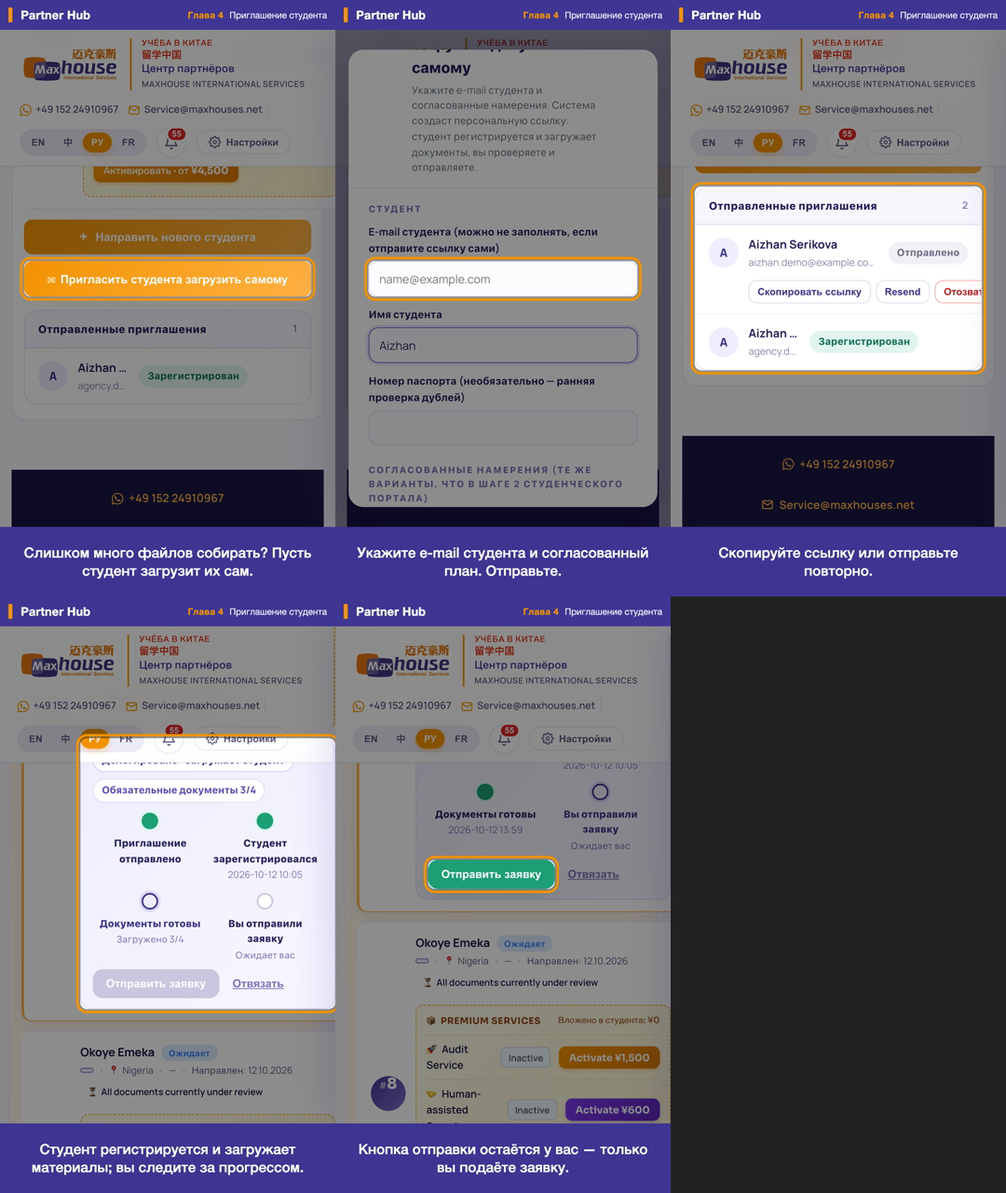
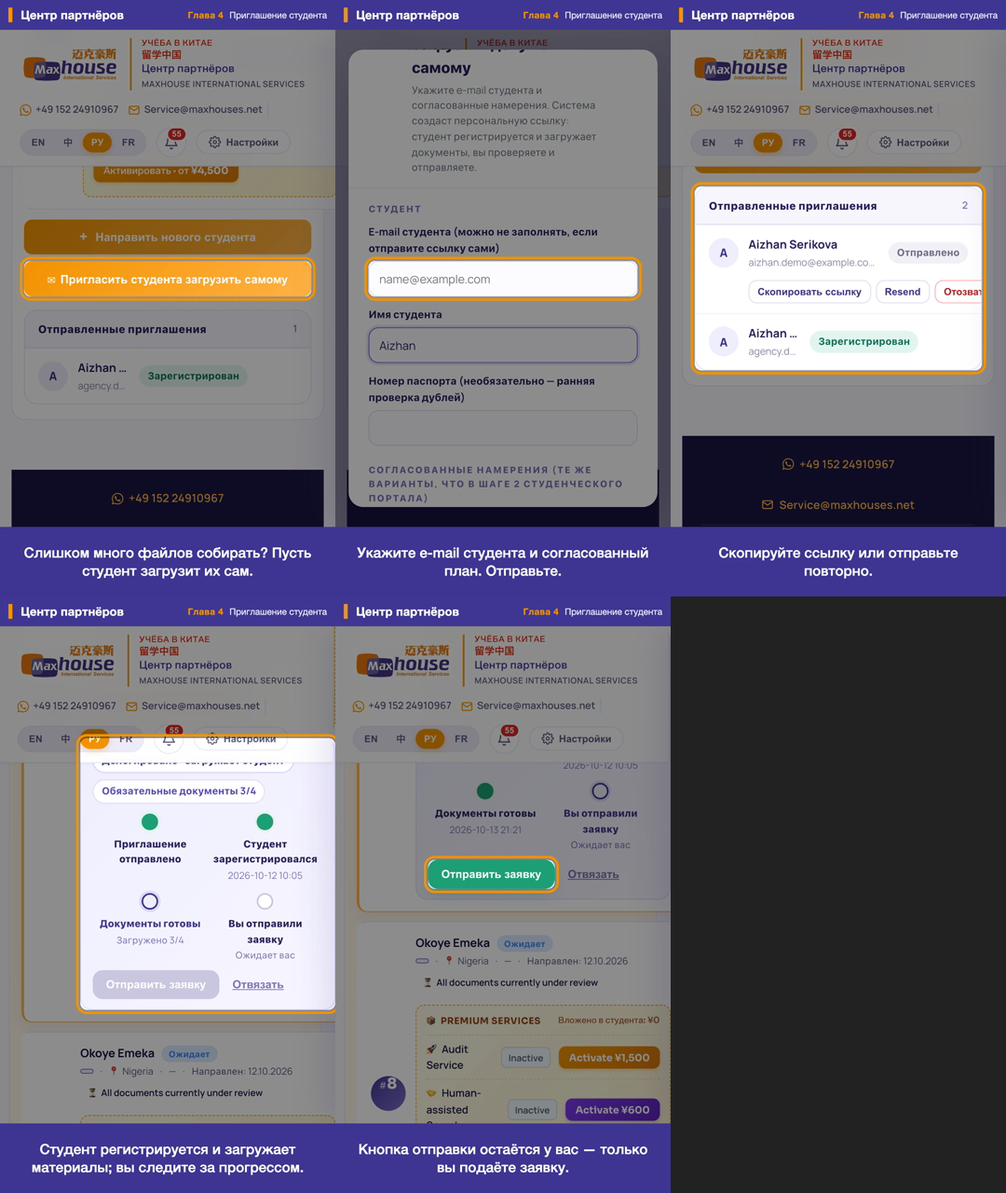
JOB-GP1 第三轮返工trip41: ch4 具名邀请章四语横竖 v185 定版重录——销 §一 负数金额。
ch4=委托学生自传章(state 章 pt-04)。review1/review2 未标 ch4 字幕缺陷→字幕/高亮一字未改，纯按 §三.10「十章全部 v185 重录·不沿用旧录像」重录。第二版 trip36 对 ch4「照原版入拼」沿用 v184 旧录像，英文 4-4/4-5 委托卡「Invested on this student: ¥-3,000」负数即此漏(漏斗缺陷1·v185 已修)。每变体 st-pt04-docs-full 置态(delegate+必传材料 4/4)→rec v185(4-5 真 submit)→st-pt04-reset-cleanup scoped 复位(不动 app_no·不跑 rebuild)。

§一(核心): v185 重录后四语 4-4/4-5 页面「Invested/该学生已投入/Вложено/Investi ¥0」无负数(亲帧 EN f00215+f00298·ZH f00215·RU f00214·FR f00212)。§三.7 N/A: ch4 全 5 镜列表中段不露 hero→无提额横幅(亲帧 EN 4-1 f00025)。§三.9: 俄法章节条 Центр партнёров/Espace partenaires(trip38 overlay 继承)。

开工+收工 verify 均 17/17 PASS 0 FAIL。时长 land en42.87/zh42.96/ru43.12/fr42.85·port en42.58/zh42.86/ru42.86/fr42.78s。本轮不改五端口代码(partner-portal diff 空·无 v186)。推: PROGRESS+决定账(D-41-1)+4 REVIEW-shots+四语 ch4 联络表(land/port)。下趟=ch5(材料退回章·pt-03 两态·§三.2 5-1)。GP-1 第三轮未收官。

diff --git a/JOB-GP1-03-PROGRESS.md b/JOB-GP1-03-PROGRESS.md
@@ -1,7 +1,20 @@
-最后一趟：2026-10-13 第40趟 第三轮返工（RULING-20261013b-video-only）：**做了＝第〇节代码核验（partner-portal 与线上一致·无 v186·diff 空）+ ch3 四语横竖 v185 定版重录，落 review2 三处镜级缺陷**。§三.3：3-3 加 preOff→录制从「第二步·档案」起录，四语横竖整段停在出生日期/护照号字段并高亮（照英文样子，取代 v2 停在表单底的旧态）。§三.4：3-9 的 pre 在 loadMyReferrals 后轮询找名字含 Aisha 的卡打 data-mh39 标、hl 改 [data-mh39]→橙环框刚提交的 #10 Demo Aisha 整卡（取代旧 hl 框错的 #9 Serikova）。§三.8：主审 grep 实证 v185 外挂 i18n 包真值（ru=Направить нового студента / fr=Soumettre un nouveau référencement），改 captions 俄法 3-1 对齐按钮逐字（§四.4）、重 TTS。§三.7：录前 st-ch8-quota-off/录后 restore 去提额横幅。§一：3-9 Invested ¥0 无负数。state 章：每片 st-ch3-cleanup 起录+录后 st-ch3-mark-test+cleanup（scoped 单删 guide-pt-ch3+还原 pt-01 基线草稿，不跑 rebuild）。开工+收工 verify 均 **17/17 PASS 0 FAIL**。亲帧逐帧复验四语 land 3-1/3-3/3-9+ru-port 3-9+zh-port 3-3：按钮名逐字对、档案字段高亮、Demo Aisha #10 唯一框住、¥0 无负数、无 beta/test、双盲守住、no @gmail、页头平台联系方式不遮（D-14-3/D-15-1）、俄法英文回退 D-18-4 照录。时长 land en58.62/zh59.92/ru59.96/fr58.99·port en58.61/zh59.83/ru59.97/fr58.95s。第二版 ch3 成片留底 _v2/、dist 覆盖第三轮版。**下趟＝ch4（§三.10 v185 重录，亲验 §一 金额无负数——v2 对 ch4「照原版入拼」致英文 4-4/4-5「Invested ¥-3,000」负数）**。GP-1 第三轮返工未收官。
+最后一趟：2026-10-13 22:00 第41趟 第三轮返工（RULING-20261013b-video-only）：**做了＝第〇节代码核验（partner-portal 与线上一致·无 v186·diff 空·index 指 v185）+ ch4 具名邀请章四语横竖 v185 定版重录，销 §一 负数金额**。ch4＝委托学生自传章（state 章 pt-04）；review1/review2 未标 ch4 字幕缺陷→字幕/高亮一字未改，纯按 §三.10「十章全部 v185 重录·不沿用旧录像」重录——第二版 trip36 对 ch4「照原版入拼」沿用 v184 旧录像，英文 4-4/4-5 委托卡「Invested ¥-3,000」负数即此漏。每变体录前 st-pt04-docs-full 置态（pt-04 delegate+必传材料 4/4+清 submitted_at）、rec v185（4-5 真 submit）、录后 st-pt04-reset-cleanup scoped 复位（清 intake_mode/submitted_at+删预置 transcript，不动 app_no=MH-EXET28，不跑 rebuild）。prod-ch 合成 8 片覆盖 dist→gp1-finish contact 四语联络表。**§一（核心）**：v185 重录后四语 4-4/4-5 页面「Invested/该学生已投入/Вложено/Investi ¥0」**无负数**（亲帧 EN f00215+f00298·ZH f00215·RU f00214·FR f00212）。**§三.7 N/A**：ch4 全 5 镜在工作台列表中段、不露 hero 顶部→无提额横幅（亲帧 EN 4-1 f00025），不需 quota-off。**§三.9**：俄法章节条 Центр партнёров/Espace partenaires（trip38 overlay 继承，联络表实帧亲验）。开工+收工 verify 均 **17/17 PASS 0 FAIL**。亲帧复验四语 land 4-1/4-4(+en 4-5)：委托卡环框、¥0 无负数、Submit 绿钮 4/4、无 beta/placeholder/test、双盲守住、no @gmail（演示邮箱 aizhan.demo@/agency.demo@example.com）、页头平台 WhatsApp/Email 不遮（D-14-3/D-15-1）、俄法委托卡英文回退 D-18-4 照录。时长 land en42.87/zh42.96/ru43.12/fr42.85·port en42.58/zh42.86/ru42.86/fr42.78s。第二版 ch4 成片留底 ~/guide/dist/partner/_v2/、dist 覆盖第三轮版。**下趟＝ch5（材料退回章·state 章 pt-03 两态；§三.2 5-1 字幕/取镜改对齐画面+§三.8 俄法引用按钮名+§一 ¥0+§三.7 露 hero 去横幅）**。GP-1 第三轮返工未收官。
+> 【存档·第40趟】最后一趟：2026-10-13 第40趟 第三轮返工（RULING-20261013b-video-only）：**做了＝第〇节代码核验（partner-portal 与线上一致·无 v186·diff 空）+ ch3 四语横竖 v185 定版重录，落 review2 三处镜级缺陷**。§三.3：3-3 加 preOff→录制从「第二步·档案」起录，四语横竖整段停在出生日期/护照号字段并高亮（照英文样子，取代 v2 停在表单底的旧态）。§三.4：3-9 的 pre 在 loadMyReferrals 后轮询找名字含 Aisha 的卡打 data-mh39 标、hl 改 [data-mh39]→橙环框刚提交的 #10 Demo Aisha 整卡（取代旧 hl 框错的 #9 Serikova）。§三.8：主审 grep 实证 v185 外挂 i18n 包真值（ru=Направить нового студента / fr=Soumettre un nouveau référencement），改 captions 俄法 3-1 对齐按钮逐字（§四.4）、重 TTS。§三.7：录前 st-ch8-quota-off/录后 restore 去提额横幅。§一：3-9 Invested ¥0 无负数。state 章：每片 st-ch3-cleanup 起录+录后 st-ch3-mark-test+cleanup（scoped 单删 guide-pt-ch3+还原 pt-01 基线草稿，不跑 rebuild）。开工+收工 verify 均 **17/17 PASS 0 FAIL**。亲帧逐帧复验四语 land 3-1/3-3/3-9+ru-port 3-9+zh-port 3-3：按钮名逐字对、档案字段高亮、Demo Aisha #10 唯一框住、¥0 无负数、无 beta/test、双盲守住、no @gmail、页头平台联系方式不遮（D-14-3/D-15-1）、俄法英文回退 D-18-4 照录。时长 land en58.62/zh59.92/ru59.96/fr58.99·port en58.61/zh59.83/ru59.97/fr58.95s。第二版 ch3 成片留底 _v2/、dist 覆盖第三轮版。**下趟＝ch4（§三.10 v185 重录，亲验 §一 金额无负数——v2 对 ch4「照原版入拼」致英文 4-4/4-5「Invested ¥-3,000」负数）**。GP-1 第三轮返工未收官。
 > 【存档·第39趟】最后一趟：2026-10-13 第39趟 第三轮返工（RULING-20261013b-video-only）：**做了＝第〇节代码核验（partner-portal 与线上一致·无 v186·diff 空）+ ch1 §三.10 定版重录 + §三.7 去横幅 + §三.9 俄法章节条**。ch1 四语横竖 8 片用 v185 重录（不沿用旧录像）；1-8 露工作台顶部→录前 st-ch8-quota-off/录后 restore 去掉「Quota raise pending 10→30」横幅；俄法章节条左标签继承 trip38 已改 overlay（Центр партнёров/Espace partenaires）。ch1 字幕无缺陷纯重录（字幕/shots/captions/产品码一字未改）。开工+收工 verify 均 **17/17 PASS 0 FAIL**。亲眼逐帧：EN land 1-8 f00402+EN port 1-8 f00438（hero 橙框·¥0 无负数·无横幅·STUDENTS 9）+RU/FR land 章节条裁帧（Центр партнёров/Espace partenaires）；无 beta/test、双盲守住、no @gmail、页头平台联系方式不遮（D-14-3/D-15-1）、俄法 hero LL 英文回退 D-18-4 照录。第二版 ch1 成片留底 _v2/、dist 覆盖第三轮版。**下趟＝ch3（§三.3 ch3-3 中俄法档案字段高亮+§三.4 ch3-9 滚到 Demo Aisha 卡+§三.8 俄法 3-1 引用按钮名+§一 工作台；state 章需 st-ch3-cleanup/mark-test）**。GP-1 第三轮返工未收官。
 > 【存档·第38趟】最后一趟：2026-10-13 第38趟 第三轮返工（RULING-20261013b-video-only）：**做了＝第〇节放回代码核验（partner-portal 与线上一致·无 v186·diff 空）+ ch2 §三.1 重做**。2-3 高亮改框第一张学生卡整卡（原框计数药丸）；2-4 改为依次框 5 张不同真实阶段的卡状态行（nth1/4/5/6/8＝审核中/已通过匹配/新offer/已发通知书/录取完成·rec.mjs 新增 hlseq 多段高亮）+四语字幕重写重配音；§三.7 录前 st-ch8-quota-off/录后 restore 去掉工作台顶部提额横幅；§三.9 俄法章节条左标签改 Центр партнёров/Espace partenaires。四语横竖 8 片 v185 重录+重拼，开工+收工 verify 均 **17/17 PASS 0 FAIL**。亲眼逐帧复验 EN seg1-5/2-1/2-3+ZH seg3+RU/FR seg5：环框正确、无提额横幅、¥0 无负数、各 ¥ 正数、无 beta/test、双盲守住、no @gmail。第二版成片留底 _v2/、dist 覆盖第三轮版。**下趟＝ch1（§三.10 十章全部重录：四语横竖 v185 定版重录+§三.7 去横幅+§三.9 俄法章节条；ch1 字幕无缺陷纯重录）**。GP-1 第三轮返工未收官。
 > 【存档·第二版收官单结论，已被第三轮返工重开】最后一趟：2026-10-13 第37趟 返工：**做了＝四语过 review1 §六十一项重审 → GP-1 返工收官**。全部工作台章(ch1/2/3/5/7/8/9/10 v185 定版)+ ch6 §二去揭晓(trip21)+ ch4 原版 + 开场快剪 OP-2..5 + 四语全片/速览(trip36 重拼)齐备。本趟纯复审+文书、**零 DB 写入**，开工+收工 verify **17/17 PASS 0 FAIL**。十一项四语各自全过：写 REVIEW-en-self.md(九项升十一项 v2)+ 新建 REVIEW-{zh,ru,fr}-self.md；四张 shots 逐镜对账表 **0 条「否」**。当场新验：①禁用词＋真名校名＋beta/test 对 captions 全 **57 镜×4 语** 扫描 **0 命中**；②8 个片尾成片 ED-{land,port}-{en,zh,ru,fr} 抽实帧 jsQR **真帧解码**全＝`…/partner-portal/?src=video-<语言>` 逐字对；③ffprobe 实测四语 full/trailer/OP/ED 时长与 trip36 记录逐项一致、segments 全语齐。四语新时长：全片 land/port EN426.6/424.7·ZH441.1/440.3·RU449.9/449.6·FR440.3/439.8s；速览 EN164.3/162.8·ZH168.4/167.6·RU172.3/172.2·FR165.8/165.5s。十一项四语全过→照 RULING-20261012c-rework 第4条重写 `~/mh-jobs/SUMMARY-GP1.md`(首行 **PUSH_OK=yes**，大白话：返工改了什么/review1 每条怎么处理/6 条产品问题留业主/四语新时长/v1 与 v2 区别/GP-2 建议包)。主仓库点名提交 JOB-GP1(4 self-review+DECISIONS D-37-1)不推；4 self-review+SUMMARY+决定账+PROGRESS 推 mh-jobs。**GP-1 四语横竖返工全部收官，循环自停。不开始 GP-2：不传 R2、不动 Cloudflare、不推主仓库。**
+
+# 第 41 趟（2026-10-13 Mac mini 无人值守）· ch4 具名邀请章 §三.10 定版重录 + §一 负数销账（RULING-20261013b-video-only）
+- **背景**：第三轮返工续跑（§五 顺序 ch3 后＝ch4）。第〇节代码核验：`git diff origin/main --stat -- partner-portal` 空、partner-portal 下无未跟踪文件、无 v186、index.html 指向 v185→无需还原，本轮不改五端口代码（每趟复核在案）。
+- **本趟＝ch4（具名邀请/委托学生自传章，state 章 pt-04）**：
+  - **§三.10（定版重录·本趟目的）**：review1/review2 未标 ch4 任何镜级字幕缺陷，但 §三.10 要求十章全部用 v185 重录、不沿用任何旧录像。第二版（trip36）对 ch4「照原版入拼」沿用 v184 旧录像——英文 4-4/4-5 委托卡「Invested on this student: ¥-3,000」负数即此漏（漏斗缺陷1，v185 已修）。本趟 ch4 整章四语横竖 8 片用 v185 重录、合成、覆盖 dist。字幕/高亮一字未改。
+  - **state 章闭环（零改产品码·照既有 pt-04 工装 D-16-4）**：每变体 `st-pt04-docs-full.sql` 置态（pt-04 delegate+必传材料 4/4+清 submitted_at）→ `rec.mjs --chapter 4`（v185 只读 DOM，4-5 真 submit 写 submitted_at）→ `st-pt04-reset-cleanup.sql` scoped 复位（清 intake_mode/submitted_at+删预置 SPECIMEN transcript，**不动 app_no=MH-EXET28**，不跑全量 rebuild，D-12-2）。驱动脚本 `rec/_runch4.sh`（bash 显式参数避 zsh 分词坑）；en-land 先手录+肉眼验 ¥0 再批量 7 变体；`rec/_prodch4.sh` 合成 8 片。
+  - **§一（负数销账·核心）**：v185 重录后四语 4-4/4-5 页面增值服务区「Invested/该学生已投入/Вложено/Investi ¥0」**无负数**（亲帧 EN land 4-4 f00215+4-5 f00298·ZH f00215·RU f00214·FR f00212）。
+  - **§三.7（提额横幅）N/A**：ch4 全 5 镜在工作台已发邀请/委托卡/学生卡区（列表中段），均不露工作台顶部 hero→无「Quota raise pending」amber 横幅（亲帧 EN land 4-1 f00025，header 与内容间无横幅）。本趟不需 st-ch8-quota-off。
+  - **§三.9（俄法章节条）**：gp1-overlays.mjs ru.hub=Центр партнёров、fr.hub=Espace partenaires（trip38 已改 commit），本趟 ch4 重烧继承。联络表实帧亲验 ru/fr 章节条已本地化；zh=合作伙伴端、en=Partner Hub。
+- **验收**：开工+收工 verify 均 **17/17 PASS 0 FAIL**（每变体 scoped 置态/复位，无全量 rebuild）。四语 land 4-1/4-4(+en 4-5) 原始帧 + 四语横竖 8 张联络表亲验：委托卡环框、¥0 无负数、Submit 绿钮 4/4、各 ¥（¥1,500/¥600/¥4,500）正数；无 beta/placeholder/test；演示生 Aizhan Serikova/Okoye Emeka、机构 Demo Agency 无真 PII；邮箱 aizhan.demo@/agency.demo@example.com（no @gmail）；页头平台 WhatsApp/Email（Service@maxhouses.net）不遮（D-14-3/D-15-1）；俄法委托卡英文回退 D-18-4 照录不补。
+- **账目**：主仓库点名提交 JOB-GP1（REVIEW-{en,zh,ru,fr}-shots.md 追加 ch4 第三轮节 + DECISIONS D-41-1 + rec/_runch4.sh + rec/_prodch4.sh），**未推**（本轮红线）。无 shots/captions/产品码/迁移改动。第二版 ch4 成片留底 `~/guide/dist/partner/_v2/ch4-*.mp4`（8 片），dist 覆盖第三轮版（不入 git）。四语 ch4 联络表 + 4 REVIEW-shots + 决定账 + PROGRESS 推 mh-jobs。
+- **下趟**：ch5（材料退回章·state 章 pt-03 两态：退回基线录 5-1/5-2/5-3 + st-pt03-reupload 录 5-4 审核中态；§三.2 5-1 字幕/取镜改对齐画面——「A document was returned. Open the student.」与画面「Submitted·awaiting platform review / All documents under review」对不上，按 §三.2(a)铃有退回通知则从铃框起 /(b)否则字幕最小改成画面证实的说法、退回由 5-2 REJECTED 承接，四语重配音；并 §三.8 俄法引用按钮名、§一 ¥0、§三.7 露 hero 去横幅）。**GP-1 第三轮返工未收官**，后续 ch6→ch7(§三.5 7-4/§三.6)→ch8→ch9→ch10 逐章做，再 OP 重做+重拼+十一项重审→才重写 SUMMARY-GP1。
 
 # 第 39 趟（2026-10-13 Mac mini 无人值守）· ch1 §三.10 定版重录 + §三.7 去横幅 + §三.9 俄法章节条（RULING-20261013b-video-only）
 - **背景**：第三轮返工续跑（§五 顺序 ch2 后首章＝ch1）。第〇节代码核验：partner-portal 无 v186、`git diff origin/main --stat -- partner-portal` 空、无未跟踪文件→无需还原，本轮不改五端口代码（每趟复核在案）。

diff --git a/JOB-GP1-decisions.md b/JOB-GP1-decisions.md
@@ -711,3 +711,18 @@
 - **非四种停下情形**：全在成片/录制工装 + §0.3/§0.4 范围，不碰端口码/不越界/不碰 R2·CF·主仓库推送。
 - **改了**（主仓库，点名 JOB-GP1，不推）：`rec/shots-v1.json`（3-3 加 preOff、3-9 改 Aisha 标+hl+waitFor）、`captions-v1.json`（俄法 3-1）、`REVIEW-{en,zh,ru,fr}-shots.md`（追加 ch3 第三轮节、旧 3-1/3-3/3-9 行由本节取代）、`DECISIONS.md`、新增 `rec/_runch3.sh`/`rec/_prodch3.sh`（驱动脚本）。无产品码/迁移改动。成片/voice 不入 git；ch3 第二版成片已留底 `guide/dist/partner/_v2/ch3-*.mp4`，dist 覆盖为第三轮版（不入 git）。四语 ch3 联络表(land/port)+4 REVIEW-shots+决定账+PROGRESS 推 mh-jobs。
 - **下趟**（§五 顺序）：ch4（具名邀请章·state 章 pt-04 委托；review1/本轮未标 ch4 镜级缺陷，但 §三.10 要求十章全部 v185 重录不沿用旧录像——v2 对 ch4「照原版入拼」，英文 4-4/4-5「Invested ¥-3,000」负数即此漏；本轮 ch4 须 v185 重录并亲验 §一 金额无负数）。**GP-1 第三轮返工未收官**，后续 ch5(§三.2 5-1)→ch6→ch7(§三.5 7-4/§三.6)→ch8→ch9→ch10 逐章 v185 重录，再 OP 重做+重拼+十一项重审→才重写 SUMMARY-GP1。
+
+## D-41-1 (2026-10-13 第41趟 · ch4 具名邀请章 §三.10 定版重录 + §一 负数销账 · RULING-20261013b-video-only)
+- **接手核对**：git status（主仓库半成品皆别线/工装残留，本线不碰）+ 读齐 PROGRESS/loop-tail(20261013-192852)/RULING-20261013b-video-only(本轮总纲)/-gp1(§二停下四情形)/-c/-b/-d/-e/DECISIONS(D-40-1)/QUEUE/storyboard。首行开工即改「第41趟 第三轮返工进行中」，开工 verify **17/17 PASS 0 FAIL**。
+- **第〇节（放回代码）当趟复核**：`git diff origin/main --stat -- partner-portal` 空、partner-portal 下无未跟踪文件、无任何 v186 文件（index.html 指向 v185）→无需还原，本轮不改五端口任何代码（本决定项即第〇节 2 条检查的第41趟记录）。
+- **本趟选题（§五 顺序：ch3 后＝ch4）**：ch4 具名邀请（委托学生自传）章，state 章 pt-04 委托。review1/review2 未标 ch4 任何镜级字幕缺陷，但 §三.10 要求十章全部用 v185 重录、不沿用任何旧录像——第二版（trip36）对 ch4「照原版入拼」沿用 v184 旧录像，英文 4-4/4-5 委托卡「Invested on this student: ¥-3,000」负数即此漏。本趟 ch4 整章四语横竖 8 片用 v185 重录、亲验 §一 金额无负数。字幕/高亮一字未改。
+- **§三.10 实现（零改产品码/迁移/共用组件）**：state 章闭环（照 D-16-4/line 329 既有 pt-04 工装，均语言无关）——每变体录前 `st-pt04-docs-full.sql`（pt-04 置 intake_mode='delegate' + submitted_at=null + 预置 SPECIMEN transcript→必传材料 4/4）、`node rec.mjs --chapter 4 --orient <o> --lang <l>`（rec 读 v185、只读 DOM，4-5 真 submit 写 submitted_at）、录后 `st-pt04-reset-cleanup.sql` scoped 复位（清 intake_mode/submitted_at + 删 doc_id='pt-04-gp1ch4-transcript'，**不动 app_no=MH-EXET28**、不跑全量 rebuild，D-12-2）。驱动脚本 `rec/_runch4.sh`（bash 显式参数，避 zsh 不分词坑，照 trip40 教训）。en-land 先单独手录+肉眼验证 ¥0 后再批量 7 变体。`prod-ch --tag <l>-<o>-ch4` 合成 8 片覆盖 dist（`rec/_prodch4.sh`）→ `gp1-finish --stage contact --chapter 4 --lang <l>` 四语联络表。8 片 res OK + audio yes + 5 镜 box 全 resolve。
+- **§一（负数销账·本趟核心）**：v185 重录后，四语 4-4/4-5 委托卡所在页面增值服务区金额＝**¥0（无负数）**——亲帧 EN land 4-4 f00215 /（4-5）f00298「Invested on this student: ¥0」、ZH land 4-4 f00215「该学生已投入：¥0」、RU land 4-4 f00214「Вложено в студента: ¥0」、FR land 4-4 f00212「Investi pour cet étudiant : ¥0」。取代第二版 ch4 的 v184 旧录像负数。
+- **§三.7（提额横幅）N/A·我的决定**：ch4 全 5 镜画面均在工作台「已发邀请/委托卡/学生卡」区（scrollIntoView 后处于列表中段），均不露工作台顶部 hero，故无「Quota raise pending」amber 横幅——亲帧 EN land 4-1 原始帧 f00025 证吸顶页头与内容间无 amber 横幅。本趟 ch4 **不需** st-ch8-quota-off（与 ch1-8 露 hero 的镜不同）。
+- **§三.9（俄法章节条左标签）**：gp1-overlays.mjs BAR_I18N.ru.hub=Центр партнёров、fr.hub=Espace partenaires 已由 trip38(D-38-1)改并 commit；本趟 ch4 重烧章节条自动继承。联络表实帧亲验：ru 章节条＝Центр партнёров、fr＝Espace partenaires；zh＝合作伙伴端、en＝Partner Hub。
+- **自验（亲眼逐帧，铁律15）**：EN land 4-1 f00025（邀请钮橙框·无横幅·Sent invites agency.demo@example.com）/4-4 f00215/4-5 f00298（¥0·Submit 绿钮·4/4）；ZH land 4-4 f00215（委托·学生自传·该学生已投入 ¥0·合作伙伴中心）；RU land 4-4 f00214（Делегировано·Вложено ¥0·章节条 Центр партнёров）；FR land 4-4 f00212（Délégué·Investi ¥0·章节条 Espace partenaires）；四语横竖 8 张联络表（逐镜字幕中点，demo 邮箱全掩码）。全程无 beta/placeholder/test、¥ 皆正数或 ¥0（无负数）；演示生 Aizhan Serikova/Okoye Emeka、演示机构 Demo Agency 无真 PII、邮箱 aizhan.demo@/agency.demo@example.com（no @gmail）；页头平台 WhatsApp +49 152 24910967/Email Service@maxhouses.net 不遮（D-14-3/D-15-1）；俄法委托卡所在页面英文回退片段（Premium services / All documents currently under review 等）D-18-4 照录不补。
+- **时长（最终成片，秒）**：land en 42.87 / zh 42.96 / ru 43.12 / fr 42.85；port en 42.58 / zh 42.86 / ru 42.86 / fr 42.78。8 片全 res OK + audio yes。
+- **DB**：开工+收工 verify 均 **17/17 PASS 0 FAIL**，baseline 守住（每变体 scoped 置态/复位，无全量 rebuild，D-12-2）。写入/删除仅 §0.3/§0.4 范围（pt-04 单字段 + 预置/删 transcript 行 + 4-5 真 submit submitted_at，录后复位回基线）。
+- **非四种停下情形**：全在成片/录制工装 + §0.3/§0.4 范围，不碰端口码/不越界/不碰 R2·CF·主仓库推送。
+- **改了**（主仓库，点名 JOB-GP1，不推）：`REVIEW-{en,zh,ru,fr}-shots.md`（追加 ch4 §三.10+§一 第三轮节）、`DECISIONS.md`、新增驱动脚本 `rec/_runch4.sh`/`rec/_prodch4.sh`。无 shots/captions/产品码/迁移改动（ch4 字幕无缺陷纯重录，§三.9 用 trip38 既有 overlay）。成片/voice 不入 git；ch4 第二版成片已留底 `~/guide/dist/partner/_v2/ch4-*.mp4`（8 片，同一文件只留一次），dist 覆盖为第三轮版（不入 git）。四语 ch4 联络表 + 4 REVIEW-shots + 决定账 + PROGRESS 推 mh-jobs。
+- **下趟**（§五 顺序）：ch5（材料退回章·state 章 pt-03 两态：退回基线录 5-1/5-2/5-3 + st-pt03-reupload 录 5-4 审核中态；§三.2 要求 5-1 字幕/取镜改——字幕「A document was returned. Open the student.」与画面「Submitted·awaiting platform review / All documents currently under review」对不上，按 §三.2 (a)通知铃有退回通知则从铃开始框并点开 / (b)否则字幕最小改成画面能证实的说法，退回由 5-2 REJECTED·Modification requested 承接——四语同步重配音；并 §三.8 俄法引用按钮名、§一 工作台 ¥0、§三.7 露 hero 的镜去横幅）。**GP-1 第三轮返工未收官**，后续 ch6→ch7(§三.5 7-4/§三.6)→ch8→ch9→ch10 逐章 v185 重录，再 OP 重做+重拼+十一项重审→才重写 SUMMARY-GP1。

diff --git a/JOB-GP1-REVIEW-ru-shots.md b/JOB-GP1-REVIEW-ru-shots.md
@@ -182,3 +182,20 @@ ch3 四语横竖 8 片 v185 重录。俄文镜本趟核心＝**§三.8（3-1 引
 
 - 俄界面英文回退片段（增值服务名 Audit Service/Human-assisted Search、All documents currently under review 等）＝产品 i18n 回退，D-18-4 照录不补；高亮/引用的按钮名（Направить нового студента）、字段名（Дата рождения/№ паспорта）、章节条（Центр партнёров）均真本地化。
 - §四.5：8 片 DOM 全 no @gmail；无 beta/test；¥ 皆正数或 ¥0。时长 land ru 59.96 / port ru 59.97。联络表 `~/mh-jobs/shots/GP1/ru/ch3-contact-{land,port}-ru.png`。
+
+## ch4 §三.10 + §一（第三轮返工 · RULING-20261013b，第41趟 2026-10-13 · v185 定版重录·不沿用旧录像）
+ch4＝具名邀请（委托学生自传）章（state 章：pt-04 置 intake_mode='delegate' + 必传材料 4/4，4-5 真 submit；每变体录前 `st-pt04-docs-full.sql` 置态、录后 `st-pt04-reset-cleanup.sql` scoped 复位，不动 app_no=MH-EXET28、不跑全量 rebuild，D-12-2）。review1/review2 未标 ch4 字幕缺陷→**字幕/高亮一字未改**，纯按 §三.10 v185 重录四语横竖 8 片覆盖 dist。
+- **§一（负数销账·核心）**：第二版「照原版入拼」沿用 v184 旧录像，英文 4-4/4-5 委托卡「Invested ¥-3,000」为负（漏斗缺陷1，v185 已修）。本趟 v185 重录后四语 4-4/4-5 页面金额＝**¥0（无负数）**——亲帧 RU land 4-4 f00214「Вложено в студента: ¥0」、EN land 4-4 f00215「Invested ¥0」、ZH land 4-4 f00215「该学生已投入：¥0」、FR land 4-4 f00212「Investi ¥0」。
+- **§三.7 N/A**：ch4 全 5 镜在工作台已发邀请/委托卡/学生卡区（列表中段），不露工作台顶部 hero→无提额横幅（亲帧 EN land 4-1 f00025），不需 st-ch8-quota-off。
+- **§三.9**：ru 章节条＝「Центр партнёров」（trip38 已改 overlay，本趟继承，联络表实帧亲验）；fr＝「Espace partenaires」、zh＝「合作伙伴端」、en＝「Partner Hub」。
+
+| 镜 | 字幕原文（配音·俄·不改） | 字幕中点画面高亮区实际文字（成片实帧肉眼读） | 同一件事？ |
+|----|------------------------|------------------------------------------------|-----------|
+| 4-1 | Слишком много файлов собирать? Пусть студент загрузит их сам. | 橙环框「✉ Invite student to self-upload」委托邀请钮（产品该串英文回退 D-18-4） | 是 |
+| 4-2 | Укажите e-mail студента и согласованный план. Отправьте. | 邀请弹窗表单：姓名「Aizhan Serikova」+邮箱「aizhan.demo@example.com」（演示号·no @gmail） | 是 |
+| 4-3 | Скопируйте ссылку или отправьте повторно. | 橙环框已发邀请行：Aizhan Serikova · agency.demo@example.com ·（复制/重发钮） | 是 |
+| 4-4 | Студент регистрируется и загружает материалы; вы следите за прогрессом. | 橙环框委托卡：Делегировано·загружает студент / Обязательные документы 3/4 / 时间线 Приглашение отправлено→Студент зарегистрировался 2026-10-12→Документы готовы 3/4→Вы отправили заявку | 是 |
+| 4-5 | Кнопка отправки остаётся у вас — только вы подаёте заявку. | 橙环框「Отправить заявку」按钮（Обязательные документы 4/4·由灰变绿可点） | 是 |
+
+- §四.5：ch4 画面＝登录（offCamera）+ 工作台邀请区 + 委托卡；无付款/内测元素；8 片 DOM 全 no @gmail（aizhan.demo@/agency.demo@example.com）；无 beta/test；¥＝增值服务（Активировать ¥1,500/¥600/от ¥4,500，正数）与「Вложено ¥0」（非负）；俄界面英文回退片段（Premium services、All documents currently under review 等）＝D-18-4 照录不补；演示生/机构无真 PII；页头平台联系方式不遮（D-14-3/D-15-1）。
+- 时长（秒）：land ru 43.12；port ru 42.86。联络表 `~/mh-jobs/shots/GP1/ru/ch4-contact-{land,port}-ru.png`。

diff --git a/JOB-GP1-REVIEW-fr-shots.md b/JOB-GP1-REVIEW-fr-shots.md
@@ -182,3 +182,20 @@ ch3 四语横竖 8 片 v185 重录。法文镜本趟核心＝**§三.8（3-1 引
 
 - 法界面英文回退片段（增值服务名等）＝产品 i18n 回退，D-18-4 照录不补；高亮/引用的按钮名（Soumettre un nouveau référencement）、字段名（Date de naissance/N° de passeport）、章节条（Espace partenaires）均真本地化。
 - §四.5：8 片 DOM 全 no @gmail；无 beta/test；¥ 皆正数或 ¥0。时长 land fr 58.99 / port fr 58.95。联络表 `~/mh-jobs/shots/GP1/fr/ch3-contact-{land,port}-fr.png`。
+
+## ch4 §三.10 + §一（第三轮返工 · RULING-20261013b，第41趟 2026-10-13 · v185 定版重录·不沿用旧录像）
+ch4＝具名邀请（委托学生自传）章（state 章：pt-04 置 intake_mode='delegate' + 必传材料 4/4，4-5 真 submit；每变体录前 `st-pt04-docs-full.sql` 置态、录后 `st-pt04-reset-cleanup.sql` scoped 复位，不动 app_no=MH-EXET28、不跑全量 rebuild，D-12-2）。review1/review2 未标 ch4 字幕缺陷→**字幕/高亮一字未改**，纯按 §三.10 v185 重录四语横竖 8 片覆盖 dist。
+- **§一（负数销账·核心）**：第二版「照原版入拼」沿用 v184 旧录像，英文 4-4/4-5 委托卡「Invested ¥-3,000」为负（漏斗缺陷1，v185 已修）。本趟 v185 重录后四语 4-4/4-5 页面金额＝**¥0（无负数）**——亲帧 FR land 4-4 f00212「Investi pour cet étudiant : ¥0」、EN land 4-4 f00215「Invested ¥0」、ZH land 4-4 f00215「该学生已投入：¥0」、RU land 4-4 f00214「Вложено ¥0」。
+- **§三.7 N/A**：ch4 全 5 镜在工作台已发邀请/委托卡/学生卡区（列表中段），不露工作台顶部 hero→无提额横幅（亲帧 EN land 4-1 f00025），不需 st-ch8-quota-off。
+- **§三.9**：fr 章节条＝「Espace partenaires」（trip38 已改 overlay，本趟继承，联络表实帧亲验）；ru＝「Центр партнёров」、zh＝「合作伙伴端」、en＝「Partner Hub」。
+
+| 镜 | 字幕原文（配音·法·不改） | 字幕中点画面高亮区实际文字（成片实帧肉眼读） | 同一件事？ |
+|----|------------------------|------------------------------------------------|-----------|
+| 4-1 | Trop de fichiers à rassembler ? Laissez l'étudiant les téléverser. | 橙环框「✉ Invite student to self-upload」委托邀请钮（产品该串英文回退 D-18-4） | 是 |
+| 4-2 | Renseignez l'e-mail de l'étudiant et le projet convenu. Envoyez. | 邀请弹窗表单：姓名「Aizhan Serikova」+邮箱「aizhan.demo@example.com」（演示号·no @gmail） | 是 |
+| 4-3 | Copiez le lien ou renvoyez-le. | 橙环框已发邀请行：Aizhan Serikova · agency.demo@example.com ·（复制/重发钮） | 是 |
+| 4-4 | L'étudiant s'inscrit et téléverse ; vous suivez la progression. | 橙环框委托卡：Délégué·l'étudiant téléverse / Documents obligatoires 3/4 / 时间线 Invitation envoyée→Étudiant inscrit 2026-10-12→Documents complets 3/4→Vous avez soumis | 是 |
+| 4-5 | Le bouton d'envoi reste chez vous — vous seul déposez le dossier. | 橙环框「Soumettre la candidature」按钮（Documents obligatoires 4/4·由灰变绿可点） | 是 |
+
+- §四.5：ch4 画面＝登录（offCamera）+ 工作台邀请区 + 委托卡；无付款/内测元素；8 片 DOM 全 no @gmail（aizhan.demo@/agency.demo@example.com）；无 beta/test；¥＝增值服务（Activer ¥1,500/¥600/dès ¥4,500，正数）与「Investi ¥0」（非负）；法界面英文回退片段（Premium services 等）＝D-18-4 照录不补；演示生/机构无真 PII；页头平台联系方式不遮（D-14-3/D-15-1）。
+- 时长（秒）：land fr 42.85；port fr 42.78。联络表 `~/mh-jobs/shots/GP1/fr/ch4-contact-{land,port}-fr.png`。
